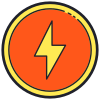
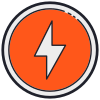
Commit 32 - cleaned files

Changed region(s): [[0.03, 0.03, 0.96, 0.96], [0.36, 0.24, 0.66, 0.78]]

diff --git a/src/pages/EntriesListPage/EntriesListPage.jsx b/src/pages/EntriesListPage/EntriesListPage.jsx
@@ -3,7 +3,7 @@ import { search, deleteEntry, createEntry } from "../../utilities/entries-api";
 import EditEntryForm from "../../components/EditEntryForm/EditEntryForm";
 import DeleteOutlineIcon from '@mui/icons-material/DeleteOutline';
 import BoltTwoToneIcon from '@mui/icons-material/BoltTwoTone';
-import { Switch, Box, TextField, MenuItem, Button } from '@mui/material';
+import { Paper, Switch, Box, TextField, MenuItem, Button } from '@mui/material';
 import VideocamIcon from '@mui/icons-material/Videocam';
 import RestaurantIcon from '@mui/icons-material/Restaurant';
 import GolfCourseIcon from '@mui/icons-material/GolfCourse';
@@ -40,7 +40,6 @@ export default function EntriesListPage({ addEntry }) {
     if (value) {
       const data = await search(value);
       setEntries(data);
-      // setRandomizedEntries(data);
     }
   }
   
@@ -142,7 +141,7 @@ export default function EntriesListPage({ addEntry }) {
     <div className='cardContainer'>
         {entries.map((entry) => (
               <div className="list" key={entry._id}>
-                <div>
+                <div className="scrollbar" >
                   <EditEntryForm entry={entry} newEntry={newEntry} fetchEntries={fetchEntries}/>
                   <DeleteOutlineIcon onClick={() => handleDeleteEntry(entry._id)}></DeleteOutlineIcon>
                 </div>  
@@ -153,9 +152,7 @@ export default function EntriesListPage({ addEntry }) {
                     defaultChecked
                     edge="end"
                     value={entry.item1}
-                    // checked={loading}
                     onChange={handleSwitch}
-                    // name="loading"
                     color="primary"
                   />                
               </div>
@@ -171,43 +168,3 @@ export default function EntriesListPage({ addEntry }) {
   </div>
   );
 }
-
-// radio button with onchange
-// new state empty array initially - as items added, added to array
-// if value exists/doesntExist in state remove/add 
-
-
-  // const [checked, setChecked] = React.useState(['wifi']);
-
-  // const handleToggle = (value) => () => {
-  //   const currentIndex = checked.indexOf(value);
-  //   const newChecked = [...checked];
-
-  //   if (currentIndex === -1) {
-  //     newChecked.push(value);
-  //   } else {
-  //     newChecked.splice(currentIndex, 1);
-  //   }
-
-  //   setChecked(newChecked);
-  // };
-
-
-
-    //   <ListItem>
-    //     <ListItemIcon>
-    //       {/* <EditEntryForm entry={entry} newEntry={newEntry} fetchEntries={fetchEntries}/> */}
-    //       <DeleteOutlineIcon onClick={() => handleDeleteEntry(entry._id)}></DeleteOutlineIcon>        
-    //     </ListItemIcon>
-    //     <ListItemText id="switch-list-label-wifi" primary={entry.item1} />
-    //     <Switch
-    //       edge="end"
-    //       // onChange={handleToggle('wifi')}
-    //       // checked={checked.indexOf('wifi') !== -1}
-    //       inputProps={{
-    //         'aria-labelledby': 'switch-list-label-wifi',
-    //       }}
-    //     />
-    //   </ListItem>
-    // </List>
-

diff --git a/src/index.css b/src/index.css
@@ -14,10 +14,6 @@
   box-sizing: border-box;
 }
 
-.bg-body-tertiary.navbar.navbar-expand-sm.navbar-light {
-  border-radius: 5px;
-}
-
 body {
   margin: 0 auto;
   font-family: -apple-system, BlinkMacSystemFont, 'Segoe UI', 'Roboto', 'Oxygen',
@@ -25,7 +21,9 @@ body {
   sans-serif;
   -webkit-font-smoothing: antialiased;
   -moz-osx-font-smoothing: grayscale;
-  background: linear-gradient(-45deg, white, var(--orange));;
+  background-color: rgb(249, 249, 249);
+  ;
+  /* background: linear-gradient(-45deg, white, var(--orange));; */
   padding: 2vmin;
   height: 100vh;
   text-align: center;
@@ -60,7 +58,7 @@ button, a.button {
 .lightningBolt {
   width: 100px !important;
   height: 100px !important;
-  color: var(--yellow);
+  color: #ededed;
 }
 
 .lightningBolt::before {
@@ -72,16 +70,16 @@ button, a.button {
 #lightningBtn {
   position: fixed;
   border-radius: 50%;
-  outline: 5px solid var(--yellow);
+  outline: 5px solid #ededed;
   box-shadow: 0 8px 15px rgba(0, 0, 0, 0.8), 0 0 0 6px black;
-  bottom: 15%;
+  bottom: 10%;
   left: 50%;
   transform: translateX(-50%);
 }
 
 #authLightning {
   border-radius: 50%;
-  outline: 5px solid var(--yellow);
+  outline: 5px solid yellow;
   box-shadow: 0 8px 15px rgba(0, 0, 0, 0.8), 0 0 0 6px black;
   left: 50%;
 }
@@ -89,6 +87,11 @@ button, a.button {
 div.container {
   display: flex;
   flex-direction: column;
+}
+
+/* navBar */
+.MuiPaper-root {
+  background-color: var(--orange);
 }
 
 form {
@@ -100,6 +103,13 @@ div.cardContainer {
   flex-direction: column;
   text-align: left;
   padding: 0 5%;
+  justify-content: center;
+}
+
+.scrollbar {
+  max-height: 200px;
+  overflow-y: scroll;
+  overflow-x: scroll;
 }
 
 .list {
@@ -110,7 +120,6 @@ div.cardContainer {
 }
 
 .submitBtn {
-  /* color: white !important; */
   border: 1px solid rgba(0, 0, 0, 0.2) !important;
   width: 251.95px;
 }
@@ -143,10 +152,12 @@ div.cardContainer {
   margin-left: auto;
   margin-right: auto;
   transform: rotate(-10deg);
-  background-color: white;
+  color: rgb(237, 237, 237);
+  background-color: var(--orange);
   padding: 15px;
   max-width: 300px;
   border-radius: 10px;
+  overflow: hidden;
 }
 
 .spin {
@@ -157,3 +168,5 @@ div.cardContainer {
   0% { transform: rotate(0deg); }
   100% { transform: rotate(360deg); }
 }
+
+

diff --git a/src/components/NavBar/NavBar.css b/src/components/NavBar/NavBar.css
@@ -4,6 +4,6 @@
 }
 
 .navBar {
-    background-color: white;
-    color: black;
+    background-color: #fa5b12;
+    color: rgb(237, 237, 237);
 }
